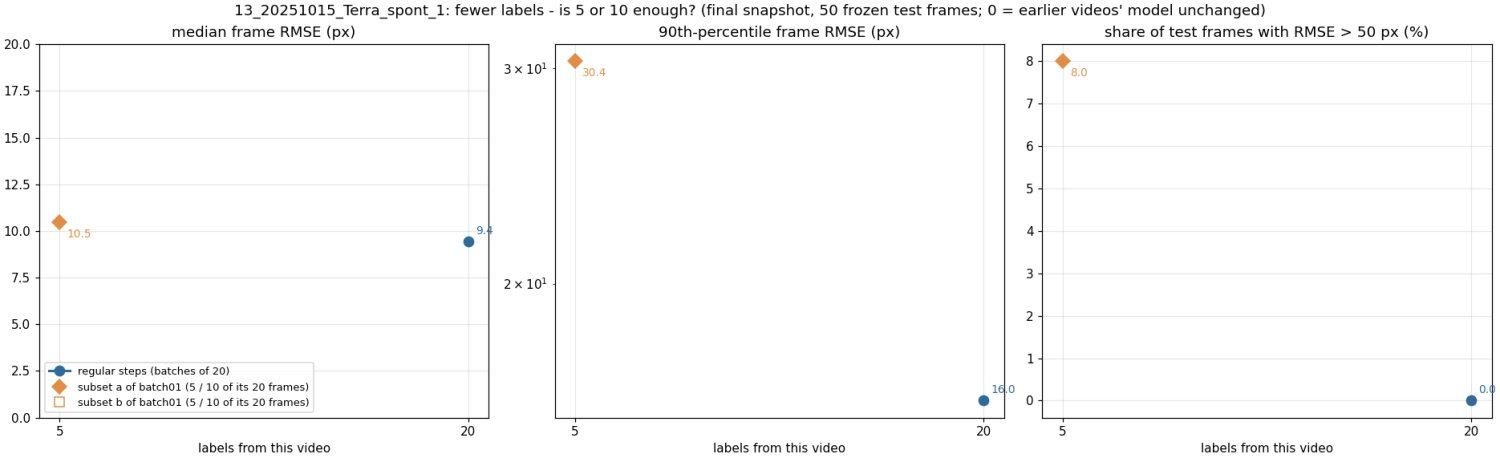
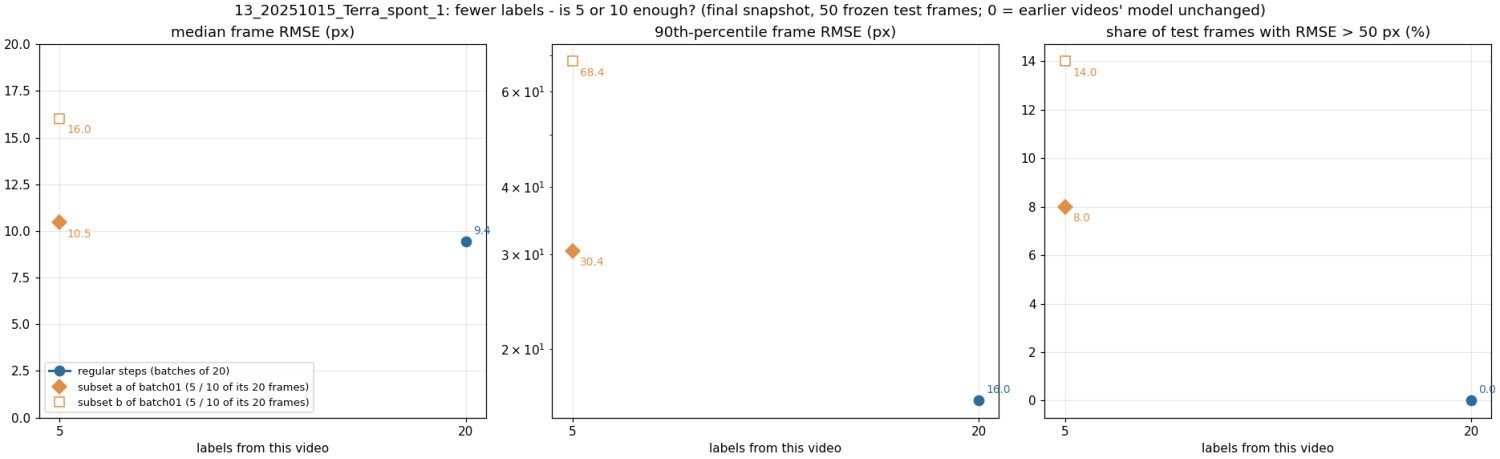
Video 13 fewer-labels: subset 5b = 16.03 px

diff --git a/report/index.html b/report/index.html
@@ -78,7 +78,7 @@ math[display="block"]{margin:10px 0 6px;text-align:left;overflow-x:auto;max-widt
 
 <header>
   <h1><span lang="zh">小鼠眼睛关键点追踪：做了什么，结果是什么</span><span lang="en">Mouse eye keypoint tracking: what was done and what came out</span></h1>
-  <p class="muted small">Zhiheng Li (University of Minnesota), Kaiwen Sheng (Stanford) · <span lang="zh">页面生成时间</span><span lang="en">page built</span> 2026-10-05 18:50 · <a href="https://github.com/ZhihengLi0/mouse-behavior-tracking">GitHub: ZhihengLi0/mouse-behavior-tracking</a></p>
+  <p class="muted small">Zhiheng Li (University of Minnesota), Kaiwen Sheng (Stanford) · <span lang="zh">页面生成时间</span><span lang="en">page built</span> 2026-10-05 20:43 · <a href="https://github.com/ZhihengLi0/mouse-behavior-tracking">GitHub: ZhihengLi0/mouse-behavior-tracking</a></p>
 
   <div class="text" lang="zh">
     <p><b>任务：</b>用 DeepLabCut 在小鼠眼睛视频的每一帧上找 8 个点：瞳孔上、下、左、右，上眼睑、下眼睑，鼻侧眼角、颞侧眼角。由这 8 个点得到瞳孔大小、眼睛睁开程度和眨眼，之后与脑记录对齐。</p>
@@ -717,7 +717,7 @@ math[display="block"]{margin:10px 0 6px;text-align:left;overflow-x:auto;max-widt
 <tr><td>10</td><td>18.13</td><td>15.01 / 12.50</td><td>11.70 / 13.08</td><td>11.83</td></tr>
 <tr><td>11</td><td>25.96</td><td>9.69 / 9.97</td><td>9.54 / 8.87</td><td>9.24</td></tr>
 <tr><td>12</td><td>5.13</td><td>5.79 / 6.63</td><td>5.99 / 5.96</td><td>5.77</td></tr>
-<tr><td>13</td><td>69.13</td><td>10.46 / –</td><td>– / –</td><td>9.43</td></tr>
+<tr><td>13</td><td>69.13</td><td>10.46 / 16.03</td><td>– / –</td><td>9.43</td></tr>
       </tbody>
     </table>
   </div>

diff --git a/report/index_en.html b/report/index_en.html
@@ -75,7 +75,7 @@ math[display="block"]{margin:10px 0 6px;text-align:left;overflow-x:auto;max-widt
 
 <header>
   <h1><span lang="en">Mouse eye keypoint tracking: what was done and what came out</span></h1>
-  <p class="muted small">Zhiheng Li (University of Minnesota), Kaiwen Sheng (Stanford) · <span lang="en">page built</span> 2026-10-05 18:50 · <a href="https://github.com/ZhihengLi0/mouse-behavior-tracking">GitHub: ZhihengLi0/mouse-behavior-tracking</a></p>
+  <p class="muted small">Zhiheng Li (University of Minnesota), Kaiwen Sheng (Stanford) · <span lang="en">page built</span> 2026-10-05 20:43 · <a href="https://github.com/ZhihengLi0/mouse-behavior-tracking">GitHub: ZhihengLi0/mouse-behavior-tracking</a></p>
 
   
   <div class="text" lang="en">
@@ -577,7 +577,7 @@ math[display="block"]{margin:10px 0 6px;text-align:left;overflow-x:auto;max-widt
 <tr><td>10</td><td>18.13</td><td>15.01 / 12.50</td><td>11.70 / 13.08</td><td>11.83</td></tr>
 <tr><td>11</td><td>25.96</td><td>9.69 / 9.97</td><td>9.54 / 8.87</td><td>9.24</td></tr>
 <tr><td>12</td><td>5.13</td><td>5.79 / 6.63</td><td>5.99 / 5.96</td><td>5.77</td></tr>
-<tr><td>13</td><td>69.13</td><td>10.46 / –</td><td>– / –</td><td>9.43</td></tr>
+<tr><td>13</td><td>69.13</td><td>10.46 / 16.03</td><td>– / –</td><td>9.43</td></tr>
       </tbody>
     </table>
   </div>

diff --git a/v2_new_pupil_top_video_scaling/13_20251015_Terra_spont_1/results/README.md b/v2_new_pupil_top_video_scaling/13_20251015_Terra_spont_1/results/README.md
@@ -19,5 +19,5 @@ the test frames above 50 px. The other models of videos 11 and 12 give 31.5-79.4
 
 **Fewer-labels study (started 2026-10-05)**: step 1 retrained with 5 or 10 of batch01's 20 labels (two subsets each,
 training set otherwise as at the time: the 580 carried labels; shuffles 2131-2134). Size of the first batch only; no
-jump selection followed. So far: 5 labels (subset a) = 10.46 px (p90 30.4, 8% of frames > 50 px) against 69.13 px at 0
-labels and 9.43 px at 20; the other three subsets are queued.
+jump selection followed. So far: 5 labels = 10.46 / 16.03 px (subsets a / b; p90 30.4 / 68.4; 8% / 12% of frames > 50 px) against
+69.13 px at 0 labels and 9.43 px at 20; the two 10-label subsets are queued.
